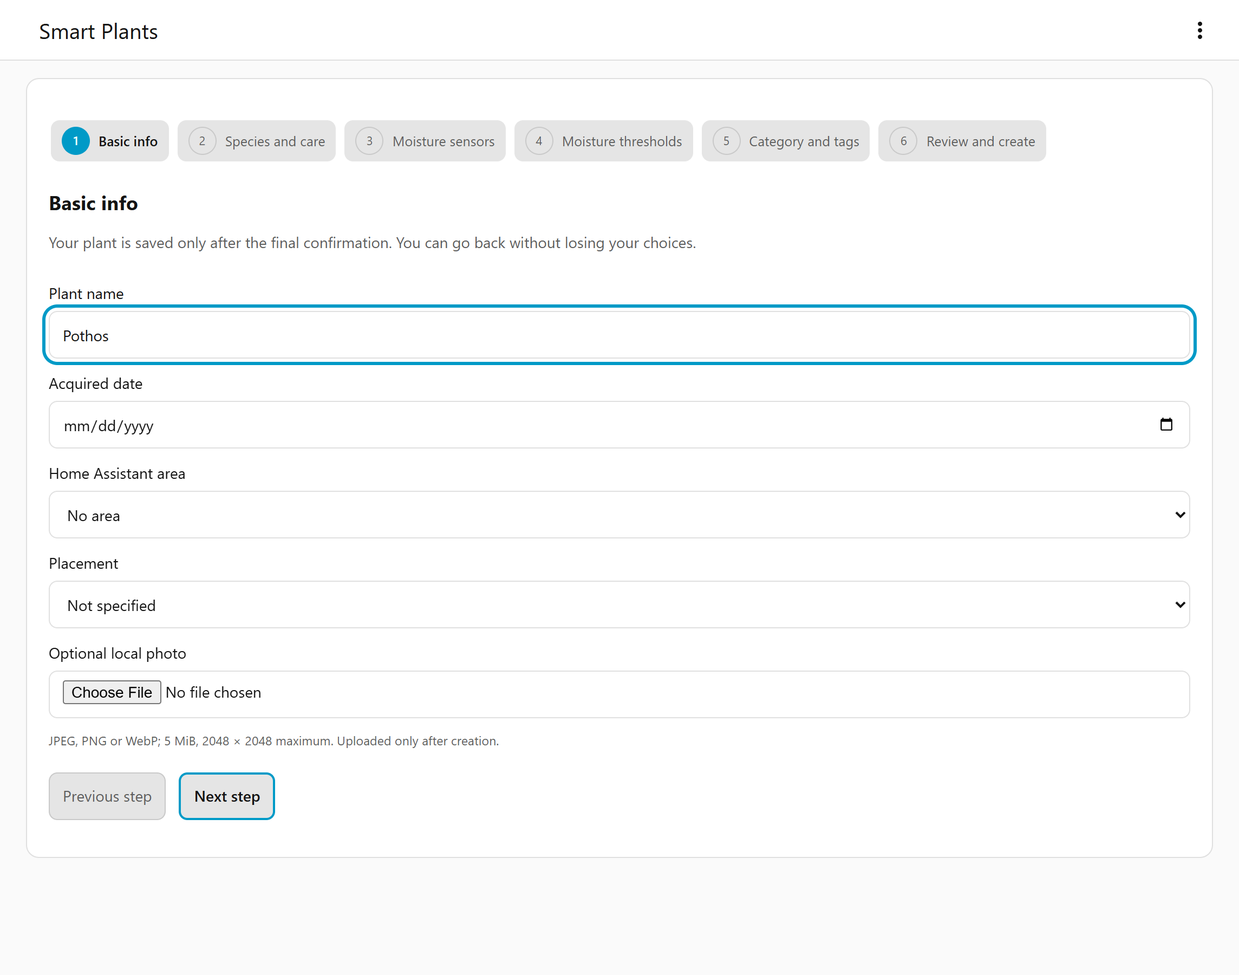
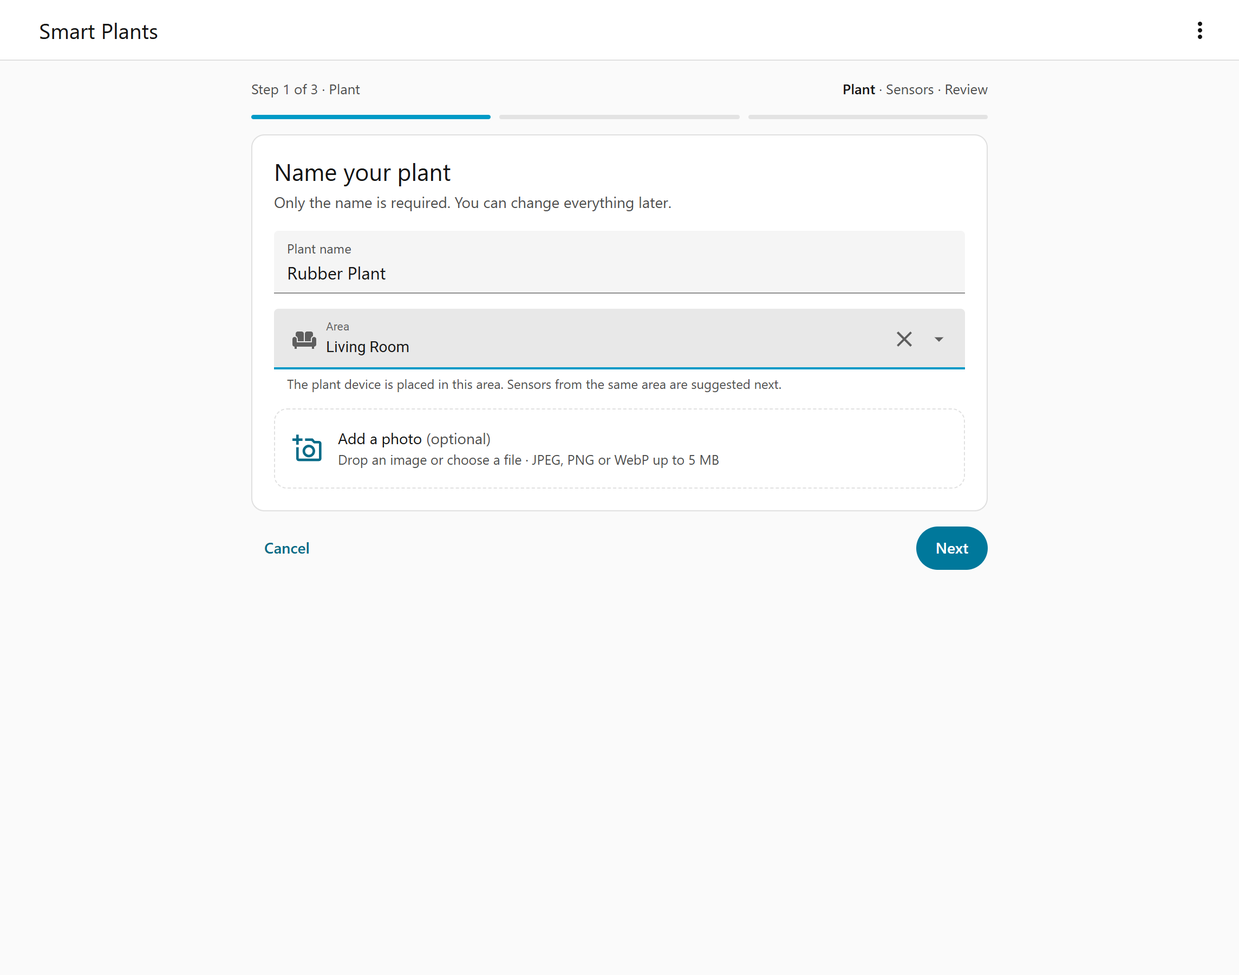
Update the docs and screenshots for the redesigned panel (#40)
Bring the README and user docs in line with the redesigned panel: current labels
and click paths for sensors, combining readings, staleness, pausing and targets,
and the health score's new place under Troubleshooting. Replace the overview,
plant page and wizard screenshots with the new panel, taken with synthetic data.

Correct the care form note: logging a watering keeps Needs water off for 24
hours, while the note said care records never change moisture alerts.

diff --git a/custom_components/smart_plants/frontend/smart-plants-panel.js b/custom_components/smart_plants/frontend/smart-plants-panel.js
@@ -1613,7 +1613,7 @@ var zt = {
 	"care.no_amount": "Keine gemessene Menge",
 	"care.save_changes": "Pflegeänderungen speichern",
 	"care.cancel_editing": "Bearbeitung abbrechen",
-	"care.no_irrigation": "Pflegeeinträge steuern keine Bewässerung und ändern keine Feuchtewarnungen.",
+	"care.no_irrigation": "Pflegeeinträge steuern nie eine Bewässerung. Nach einer eingetragenen Bewässerung bleibt „Braucht Wasser“ 24 Stunden aus.",
 	"care.confirm_delete": "Diesen Eintrag „{kind}“ löschen? Dies kann nicht rückgängig gemacht werden.",
 	"care.error_refresh_save": "Aktualisiere den Pflegeverlauf vor dem Speichern. Dein Entwurf bleibt erhalten.",
 	"care.error_refresh_delete": "Aktualisiere den Pflegeverlauf vor dem Löschen.",
@@ -2343,7 +2343,7 @@ var zt = {
 	"care.no_amount": "No measured amount",
 	"care.save_changes": "Save care changes",
 	"care.cancel_editing": "Cancel editing",
-	"care.no_irrigation": "Care records do not operate irrigation or change moisture alerts.",
+	"care.no_irrigation": "Care records never operate irrigation. After a logged watering, Needs water stays off for 24 hours.",
 	"care.confirm_delete": "Delete this {kind} record? This cannot be undone.",
 	"care.error_refresh_save": "Refresh care history before saving. Your draft is retained.",
 	"care.error_refresh_delete": "Refresh care history before deleting.",

diff --git a/frontend/src/translations/de.ts b/frontend/src/translations/de.ts
@@ -267,7 +267,7 @@ export const de: Catalog = {
   "care.no_amount": "Keine gemessene Menge",
   "care.save_changes": "Pflegeänderungen speichern",
   "care.cancel_editing": "Bearbeitung abbrechen",
-  "care.no_irrigation": "Pflegeeinträge steuern keine Bewässerung und ändern keine Feuchtewarnungen.",
+  "care.no_irrigation": "Pflegeeinträge steuern nie eine Bewässerung. Nach einer eingetragenen Bewässerung bleibt „Braucht Wasser“ 24 Stunden aus.",
   "care.confirm_delete": "Diesen Eintrag „{kind}“ löschen? Dies kann nicht rückgängig gemacht werden.",
   "care.error_refresh_save": "Aktualisiere den Pflegeverlauf vor dem Speichern. Dein Entwurf bleibt erhalten.",
   "care.error_refresh_delete": "Aktualisiere den Pflegeverlauf vor dem Löschen.",

diff --git a/frontend/src/translations/en.ts b/frontend/src/translations/en.ts
@@ -266,7 +266,7 @@ export const en = {
   "care.no_amount": "No measured amount",
   "care.save_changes": "Save care changes",
   "care.cancel_editing": "Cancel editing",
-  "care.no_irrigation": "Care records do not operate irrigation or change moisture alerts.",
+  "care.no_irrigation": "Care records never operate irrigation. After a logged watering, Needs water stays off for 24 hours.",
   "care.confirm_delete": "Delete this {kind} record? This cannot be undone.",
   "care.error_refresh_save": "Refresh care history before saving. Your draft is retained.",
   "care.error_refresh_delete": "Refresh care history before deleting.",

diff --git a/docs/sensors-and-health.md b/docs/sensors-and-health.md
@@ -6,16 +6,16 @@ indicators, and a health score.
 
 ## Supported roles
 
-| Role | Accepted source units | Valid range | Plant sensor | Problem indicator | Default aggregation |
+| Role | Accepted source units | Valid range | Plant sensor | Problem indicator | Default combination |
 | --- | --- | --- | --- | --- | --- |
-| Soil moisture | `%` | 0–100 % | Soil moisture | Needs water, Too wet, Sensor stale | primary |
-| Air temperature | `°C`, `°F`, `K` | −40 to 80 °C | Temperature | Temperature stress | average |
-| Air humidity | `%` | 0–100 % | Humidity | Humidity stress | average |
-| Illuminance | `lx` | 0–200,000 lx | Illuminance | Low light | primary |
-| Conductivity | `µS/cm` (also `μS/cm`, `uS/cm`) | 0–10,000 µS/cm | Conductivity | Conductivity stress | primary |
-| Soil temperature | `°C`, `°F`, `K` | −20 to 60 °C | Soil temperature | Soil temperature stress | primary |
-| CO₂ | `ppm` | 0–10,000 ppm | CO2 | CO2 stress | average |
-| Battery | `%` | 0–100 % | Battery | Low battery | min |
+| Soil moisture | `%` | 0–100 % | Soil moisture | Needs water, Too wet, Sensor stale | Main sensor only |
+| Air temperature | `°C`, `°F`, `K` | −40 to 80 °C | Temperature | Temperature stress | Average |
+| Air humidity | `%` | 0–100 % | Humidity | Humidity stress | Average |
+| Illuminance | `lx` | 0–200,000 lx | Illuminance | Low light | Main sensor only |
+| Conductivity | `µS/cm` (also `μS/cm`, `uS/cm`) | 0–10,000 µS/cm | Conductivity | Conductivity stress | Main sensor only |
+| Soil temperature | `°C`, `°F`, `K` | −20 to 60 °C | Soil temperature | Soil temperature stress | Main sensor only |
+| CO₂ | `ppm` | 0–10,000 ppm | CO2 | CO2 stress | Average |
+| Battery | `%` | 0–100 % | Battery | Low battery | Lowest |
 
 Notes:
 
@@ -25,28 +25,36 @@ Notes:
 - Temperatures in °F or K are converted to °C. Plant temperature sensors report in °C, and
   Home Assistant displays them in your configured unit system.
 - The panel's sensor picker filters by device class and unit (for example `moisture` for
-  soil moisture, `carbon_dioxide` for CO₂). Use **Show all sensors** if your sensor lacks a
-  device class; the unit must still match.
+  soil moisture, `carbon_dioxide` for CO₂). Use **Show all sensors (metadata fallback)** if
+  your sensor lacks a device class; the unit must still match.
+- In the panel, roles are called readings and some have plainer names: *Temperature*,
+  *Humidity*, *Light* (illuminance), and *Fertilizer level* (conductivity).
 
 ## Multiple sensors per role
 
-Each role accepts up to 32 source sensors. You choose how they are combined:
+Each role accepts up to 32 source sensors. You choose how they are combined with
+**Combine readings** in the plant's **Sensors** tab, under **Several sensors for one
+reading**:
 
-| Aggregation | Result |
+| Combine readings | Result |
 | --- | --- |
-| primary | The value of the sensor you marked as primary. There is no automatic fallback: if the primary sensor is invalid or stale, the plant value is unavailable. |
-| average | Mean of all valid, fresh sources. |
-| min | Lowest valid, fresh source. |
-| max | Highest valid, fresh source. |
+| Main sensor only | The value of the sensor you chose as **Main sensor**. There is no automatic fallback: if the main sensor is invalid or not updating, the plant value is unavailable. |
+| Average | Mean of all valid, fresh sources. |
+| Lowest | Lowest valid, fresh source. |
+| Highest | Highest valid, fresh source. |
 
-With **primary**, you must choose a primary sensor, otherwise the role has no value. With
-average, min, and max, stale or invalid sources are left out; if none remain, the value is
-unavailable.
+With **Main sensor only**, a main sensor must be chosen, otherwise the role has no value.
+Every sensor picked in the add-plant wizard becomes the main sensor for its reading. With
+**Average**, **Lowest**, and **Highest**, sources that are not updating or invalid are left
+out; if none remain, the value is unavailable.
 
 ## Staleness
 
-Each role has a **stale after** window: 6 hours by default, adjustable from 60 seconds to
-7 days. A source is stale when it hasn't delivered a valid reading within that window.
+Each role has a **Not updating after** window: 6 hours by default, adjustable from 60 seconds
+to 7 days (the field takes seconds, 60–604800) in the plant's **Sensors** tab under
+**Several sensors for one reading**. A source is stale when it hasn't delivered a valid reading within that window. The
+panel shows a stale sensor as *not updating*, and a plant whose soil moisture sensor is stale
+as *No recent data*.
 
 - A newly assigned source gets one full window as a grace period before it can be stale.
 - An assigned sensor that no longer exists counts as stale.
@@ -56,7 +64,7 @@ Each role has a **stale after** window: 6 hours by default, adjustable from 60 s
 - Some devices only send an update when their value changes. If such a sensor can stay
   silent longer than the window, increase the window for that role.
 
-For soil moisture, the **Sensor stale** entity turns on while any assigned moisture source is
+For soil moisture, the *Sensor stale* entity turns on while any assigned moisture source is
 stale. For the other roles, the problem indicator becomes unavailable while any of that
 role's sources is stale.
 
@@ -113,7 +121,9 @@ precedence.
 
 ## Health score
 
-Each plant has a **Health score** sensor from 0 to 100.
+Each plant has a **Health score** sensor from 0 to 100. The panel doesn't show it on plant
+cards; open the plant, go to the **Sensors** tab, and expand **Troubleshooting** to see the
+score under **Overall health** with the roles it includes.
 
 **Moisture part.** Moisture is scored continuously: 100 at the target, 50 at the minimum and
 at the maximum, falling to 0 at 0 % and 100 % moisture.
@@ -164,6 +174,6 @@ and creates a **Repairs** issue: "Smart Plants: assigned source missing".
 2. Choose a replacement sensor, or leave the field empty to remove the assignment.
 3. Submit.
 
-If the missing sensor was the primary one, the replacement becomes primary. The issue
-disappears on its own if the sensor comes back or you change the assignment in the panel.
-Disabled plants don't raise these issues.
+If the missing sensor was the main sensor, the replacement becomes the main sensor. The
+issue disappears on its own if the sensor comes back or you change the assignment in the
+panel. Paused plants don't raise these issues.

diff --git a/docs/troubleshooting.md b/docs/troubleshooting.md
@@ -11,9 +11,9 @@ The file is designed to be safe to share. It contains:
   client ID and secret themselves are never included),
 - whether "Preserve inventory when the integration is removed" is on,
 - OpenPlantBook connection status, such as whether a token and cached results exist,
-- inventory counts: number of plants, active vs. disabled plants, species sources, assigned
-  sensor sources (in total and per role, for example moisture, temperature, or battery),
-  photos, and internal pending operations.
+- inventory counts: number of plants, active vs. paused (`disabled`) plants, species
+  sources, assigned sensor sources (in total and per role, for example moisture,
+  temperature, or battery), photos, and internal pending operations.
 
 It does **not** contain plant names, entity IDs, care history, or photos. Still, have a look
 at the file before attaching it publicly.
@@ -60,22 +60,26 @@ in with an administrator account.
 ### A plant shows no moisture reading
 
 - Check that at least one moisture sensor is assigned in the plant's **Sensors** tab.
-- With the **primary** aggregation (the default), a primary sensor must be selected. Either
-  pick one or switch to average, min, or max.
+- With **Main sensor only** (the default), a main sensor must be selected. In the
+  **Sensors** tab, open **Several sensors for one reading**, select **Change** next to the
+  reading, and either pick a **Main sensor** or set **Combine readings** to **Average**,
+  **Lowest**, or **Highest**.
 - The source must report a numeric value with the unit `%`, between 0 and 100. Sensors with a
   different or missing unit are ignored. Check the source in **Developer tools → States**.
-- A source that is stale is excluded. With **primary**, a stale primary sensor makes the plant
-  reading unavailable (there's no automatic fallback).
+- A source that is not updating (stale) is excluded. With **Main sensor only**, a stale main
+  sensor makes the plant reading unavailable (there's no automatic fallback).
 
 The same applies to the other roles with their own units; see
 [Sensors and health](sensors-and-health.md#supported-roles).
 
 ### Sensor stale is on, but the sensor works
 
-A source is considered stale when its state or attributes haven't changed in Home Assistant
-within the **stale after** window (6 hours by default). Some sensors only report when the
-value changes, and a very stable reading can look stale. Increase **Stale after** for that
-role in the plant's **Sensors** tab, or check whether the device has stopped reporting.
+A source is considered stale when it hasn't reported a valid reading to Home Assistant within
+the **Not updating after** window (6 hours by default). The panel shows such a sensor as
+*not updating* and the plant as *No recent data*. Some sensors only report when the value
+changes, and a very stable reading can look stale. Increase **Not updating after** for that
+reading in the plant's **Sensors** tab under **Several sensors for one reading**, or check
+whether the device has stopped reporting.
 
 ### A problem indicator is unavailable
 
@@ -86,7 +90,7 @@ Unavailable means Smart Plants has no trustworthy value, which is deliberately d
   offline),
 - a source for that role is stale,
 - for *Low light*: fewer than two daytime readings in the last two hours,
-- the plant is disabled.
+- the plant is paused (**Pause monitoring**).
 
 ### "Smart Plants: assigned source missing" in Repairs
 
@@ -105,8 +109,8 @@ entity registry", pick a different entity from the `sensor` domain.
 | "OpenPlantBook rejected these credentials." | Check the client ID and secret on the [OpenPlantBook API key page](https://open.plantbook.io/apikey/) and enter them again. |
 | "OpenPlantBook could not be reached." | Check your internet connection and try later, or disable the provider for now. |
 | A reauthentication prompt appears under **Settings → Devices & services** | The stored credentials stopped working. Open the prompt and enter valid credentials. |
-| Search offers no OpenPlantBook option, or it's greyed out | Enable the provider and add credentials in the integration options. See [OpenPlantBook](openplantbook.md). |
-| Applying species data fails | The imported moisture range conflicts with your current thresholds. Adjust the moisture overrides and try again. |
+| The wizard says "Species search needs OpenPlantBook.", or the plant's **Species provider** list offers only **Manual species** | Enable the provider and add credentials in the integration options. See [OpenPlantBook](openplantbook.md). |
+| Applying species data fails | The imported moisture range conflicts with your current thresholds. Adjust the **Soil moisture targets** and try again. |
 | A reviewed species can't be applied after a while | Previews are valid for 10 minutes. Request a new preview. |
 
 OpenPlantBook problems never affect your existing plants or their entities.

diff --git a/docs/getting-started.md b/docs/getting-started.md
@@ -22,7 +22,8 @@ The overview shows:
 - one card per plant with its photo, area and species, a status label with a short
   explanation (for example *Soil moisture 34% is below the minimum of 60%*), the soil
   moisture on a bar with its target range, the current value of every other assigned
-  sensor, and when the plant was last watered.
+  sensor, and when the plant was last watered. A plant without sensors shows **Assign**,
+  which opens its **Sensors** tab.
 
 Each plant has one status, most urgent first: *Needs water*, *Too wet*, a named problem
 (such as *Too little light* or *Battery low*), *No recent data*, *No sensors*, *Healthy*.
@@ -32,8 +33,8 @@ Select **Watered** on a card to log a watering right now. A message confirms it 
 **Undo** for a few seconds.
 
 Use **Add plant** at the bottom right (or **⋮ → Add plant** in the top bar) to start the
-creation wizard. Select a plant's name to open its detail view. The **⋮** menu also links to
-the integration options and this documentation.
+creation wizard. Select a plant's name to open its page. The **⋮** menu also links to the
+integration options and this documentation.
 
 ## Create your first plant
 
@@ -115,17 +116,19 @@ Open the plant and go to the **Sensors** tab.
 - **Add sensor** lists the readings that have no sensor yet: soil moisture, temperature,
   humidity, light, battery, fertilizer level (conductivity), soil temperature and CO₂. Pick
   one, add one or more sensors and save.
-- **Several sensors for one reading** (collapsed) sets, per reading, which value counts when
-  more than one sensor is assigned (**Main sensor only**, **Average**, **Lowest** or
-  **Highest**), which sensor is the **Main sensor**, and after how many seconds without an
-  update a sensor counts as **not updating**.
+- **Several sensors for one reading** (collapsed) lists every reading with a short summary.
+  Select **Change** to set **Combine readings** (which value counts when more than one sensor
+  is assigned: **Main sensor only**, **Average**, **Lowest** or **Highest**), which sensor is
+  the **Main sensor**, and **Not updating after**: how many seconds without an update make a
+  sensor count as not updating.
 
 When the soil moisture sensor stops reporting, a warning at the top of the tab names the
 sensor and when it last reported.
 
 The sensor picker is filtered by device class and unit for each reading. Tick
-**Show all sensors** to pick anything else, or type an entity ID and press Enter to assign a
-sensor that is currently unavailable. Each reading accepts up to 32 sensors.
+**Show all sensors (metadata fallback)** to pick anything else, or type an entity ID and press
+Enter to assign a sensor that is currently unavailable. Each reading accepts up to 32
+sensors.
 
 A reading's sensor and problem entities appear the first time you assign a sensor to it. See
 [Sensors and health](sensors-and-health.md) for accepted units and how values are combined.

diff --git a/README.md b/README.md
@@ -10,7 +10,7 @@ Manage your plants as first-class Home Assistant objects. Create plants from a g
 pick a species, link the sensors you already have, log care, and use each plant's health in
 native Home Assistant automations — no YAML or template sensors required.
 
-![Smart Plants panel overview with summary cards and plant cards](docs/images/overview.png)
+![Smart Plants panel overview with status tiles, search and plant cards](docs/images/overview.png)
 
 > **Status:** early development (0.3). Expect rough edges and make sure your Home Assistant
 > backups include Smart Plants data (see [Installation](docs/installation.md#backup-and-restore)).
@@ -20,19 +20,23 @@ native Home Assistant automations — no YAML or template sensors required.
 - **Plants as stable devices.** Each plant is a long-lived Home Assistant device with its own
   area, photo, and entities. Sensors are replaceable inputs, so a plant keeps its history when
   you swap hardware.
-- **Guided panel.** A sidebar panel for creating, filtering, editing, disabling, and deleting
-  plants.
+- **Guided panel.** A sidebar panel with an overview of all plants (status tiles, search,
+  and sorting by what needs attention first), a three-step wizard for adding plants, and a
+  page per plant for its readings, sensors, care, and settings. Plants can be paused and
+  deleted from the panel.
 - **Sensor roles.** Assign existing sensors for soil moisture, temperature, humidity,
   illuminance, conductivity, soil temperature, CO2, and battery.
-- **Health evaluation.** A composite health score plus problem binary sensors such as
-  *Needs water*, *Too wet*, *Low light*, *Sensor stale*, and per-role stress, with editable
-  thresholds.
-- **Care history.** Log watering, fertilizing, pruning, repotting, and notes.
+- **Health evaluation.** Each plant gets one clear status (for example *Needs water* or
+  *Healthy*) with a short explanation, problem binary sensors such as *Needs water*,
+  *Too wet*, *Low light*, *Sensor stale*, and per-role stress, and a composite health score
+  sensor. Thresholds are editable per plant.
+- **Care history.** Log watering, fertilizing, pruning, repotting, and notes. A **Watered**
+  button on each plant logs a watering in one tap.
 - **Optional species data.** Search [OpenPlantBook](https://open.plantbook.io/) and review
   suggested values before applying them. Smart Plants works fully without it.
 - **Native Home Assistant integration.** Entities work in any automation, dashboard, or
   notification. Repairs issues guide you when an assigned sensor disappears, and diagnostics
-  help with bug reports.
+  for the integration and for each plant help with bug reports.
 - **Safe by design.** Smart Plants detects plant needs but never switches valves or pumps
   itself. You decide how to act in your own automations.
 - Setup, entity names, repairs, and the sidebar panel are available in English and German.

diff --git a/docs/openplantbook.md b/docs/openplantbook.md
@@ -58,7 +58,8 @@ has expired, request a new one.
 
 ## Apply reviewed data
 
-- **In the wizard:** tick **I reviewed and accept this species information**, then continue.
+- **In the wizard:** tick **I reviewed and accept this species information**, then select
+  **Create plant**.
 - **For an existing plant:** review the changes and select
   **Accept and apply reviewed species**.
 
@@ -72,8 +73,8 @@ What applying does:
   uses your override, field by field. Applying species data only changes defaults.
 - If the imported values can't be combined with your current settings (for example, the
   imported minimum is above the current target), the apply is refused. In the wizard you'll
-  be asked to fix the thresholds; for an existing plant, set a matching override first and
-  apply again.
+  be asked to check the **Soil moisture targets**; for an existing plant, set matching
+  **Soil moisture targets** in the **Settings** tab first and apply again.
 
 For a plant that already has OpenPlantBook data, **Preview species refresh** fetches the
 latest data and shows what would change. You can also switch back to manual species details
@@ -104,7 +105,8 @@ available while authentication is broken; only species search is affected.
 
 Go to **Settings → Devices & services → Smart Plants → Configure** and untick
 **Enable direct OpenPlantBook provider**. Species data you already applied stays on your
-plants. The wizard will then only offer manual species details.
+plants. The wizard then explains that species search needs OpenPlantBook and only offers
+entering a name yourself.
 
 ## Attribution and licensing
 

diff --git a/docs/entities.md b/docs/entities.md
@@ -31,8 +31,8 @@ For a plant called "Monstera" on an English-language system you get IDs like:
 - `number.monstera_moisture_minimum`
 
 Renaming the plant later does not change existing entity IDs. Check the actual IDs on the
-plant's device page (**Open Home Assistant device** in the panel) before using them in
-automations. You can rename entity IDs in Home Assistant like any other entity.
+plant's device page (**Open device** in the plant's **⋮** menu in the panel) before using
+them in automations. You can rename entity IDs in Home Assistant like any other entity.
 
 ## When entities are created
 
@@ -113,10 +113,11 @@ These show the effective moisture thresholds. Setting a value stores it as a per
 override, the same as editing it in the panel. A value that would break
 minimum < target < maximum (with at least 4 points between minimum and maximum) is rejected.
 
-## Disabled plants
+## Paused plants
 
-When you disable a plant in the panel, all of its entities stay registered but become
-unavailable until you re-enable it. Their history is kept.
+When you pause a plant in the panel (**Pause monitoring**), all of its entities stay
+registered but become unavailable until you resume it (**Resume monitoring**). Their history
+is kept.
 
 ## Not exposed as entities
 

diff --git a/docs/faq.md b/docs/faq.md
@@ -10,7 +10,7 @@ Smart Plants takes a different approach:
 - plants are created and edited in a sidebar panel, without YAML,
 - each plant is a Home Assistant device with separate sensor, problem, and threshold
   entities,
-- each role can use several sensors with a chosen aggregation,
+- each role can use several sensors, combined the way you choose,
 - a combined health score, care history, photos, and optional OpenPlantBook species data.
 
 Pick whichever fits your setup. Both can be installed at the same time; they don't share
@@ -52,8 +52,8 @@ provider. See [backup and restore](installation.md#backup-and-restore).
 ## Can I use several sensors for one plant?
 
 Yes. Each role (soil moisture, temperature, humidity, and so on) accepts up to 32 sensors.
-You choose whether the plant uses a primary sensor or the average, minimum, or maximum of all
-valid sensors. See [Sensors and health](sensors-and-health.md#multiple-sensors-per-role).
+You choose whether the plant uses one main sensor or the average, lowest, or highest value of
+all valid sensors. See [Sensors and health](sensors-and-health.md#multiple-sensors-per-role).
 
 ## Can one sensor be used by several plants?
 

diff --git a/docs/README.md b/docs/README.md
@@ -14,8 +14,8 @@ sensors, problem indicators, and a health score for your dashboards and automati
 ## Reference
 
 - [Sensors and plant health](sensors-and-health.md) – supported sensor roles and units,
-  aggregation, staleness, problem indicators, built-in thresholds, the health score, and
-  what happens when a sensor disappears.
+  combining several sensors, sensors that stop updating, problem indicators, built-in
+  thresholds, the health score, and what happens when a sensor disappears.
 - [Entities](entities.md) – every entity a plant provides, when it's created, and its
   attributes.
 - [OpenPlantBook](openplantbook.md) – the optional species provider: credentials, search,

diff --git a/CHANGELOG.md b/CHANGELOG.md
@@ -42,6 +42,11 @@ The format follows [Keep a Changelog](https://keepachangelog.com/en/1.1.0/), and
   and to a new automation for it, and **Download diagnostics** for bug reports (no plant name,
   notes, photo or credentials).
 
+### Fixed
+
+- The note in the care form said care records never change moisture alerts. It now says
+  that logging a watering keeps *Needs water* off for 24 hours, which is what happens.
+
 ## [0.4.0] - 2026-09-28
 
 ### Changed
